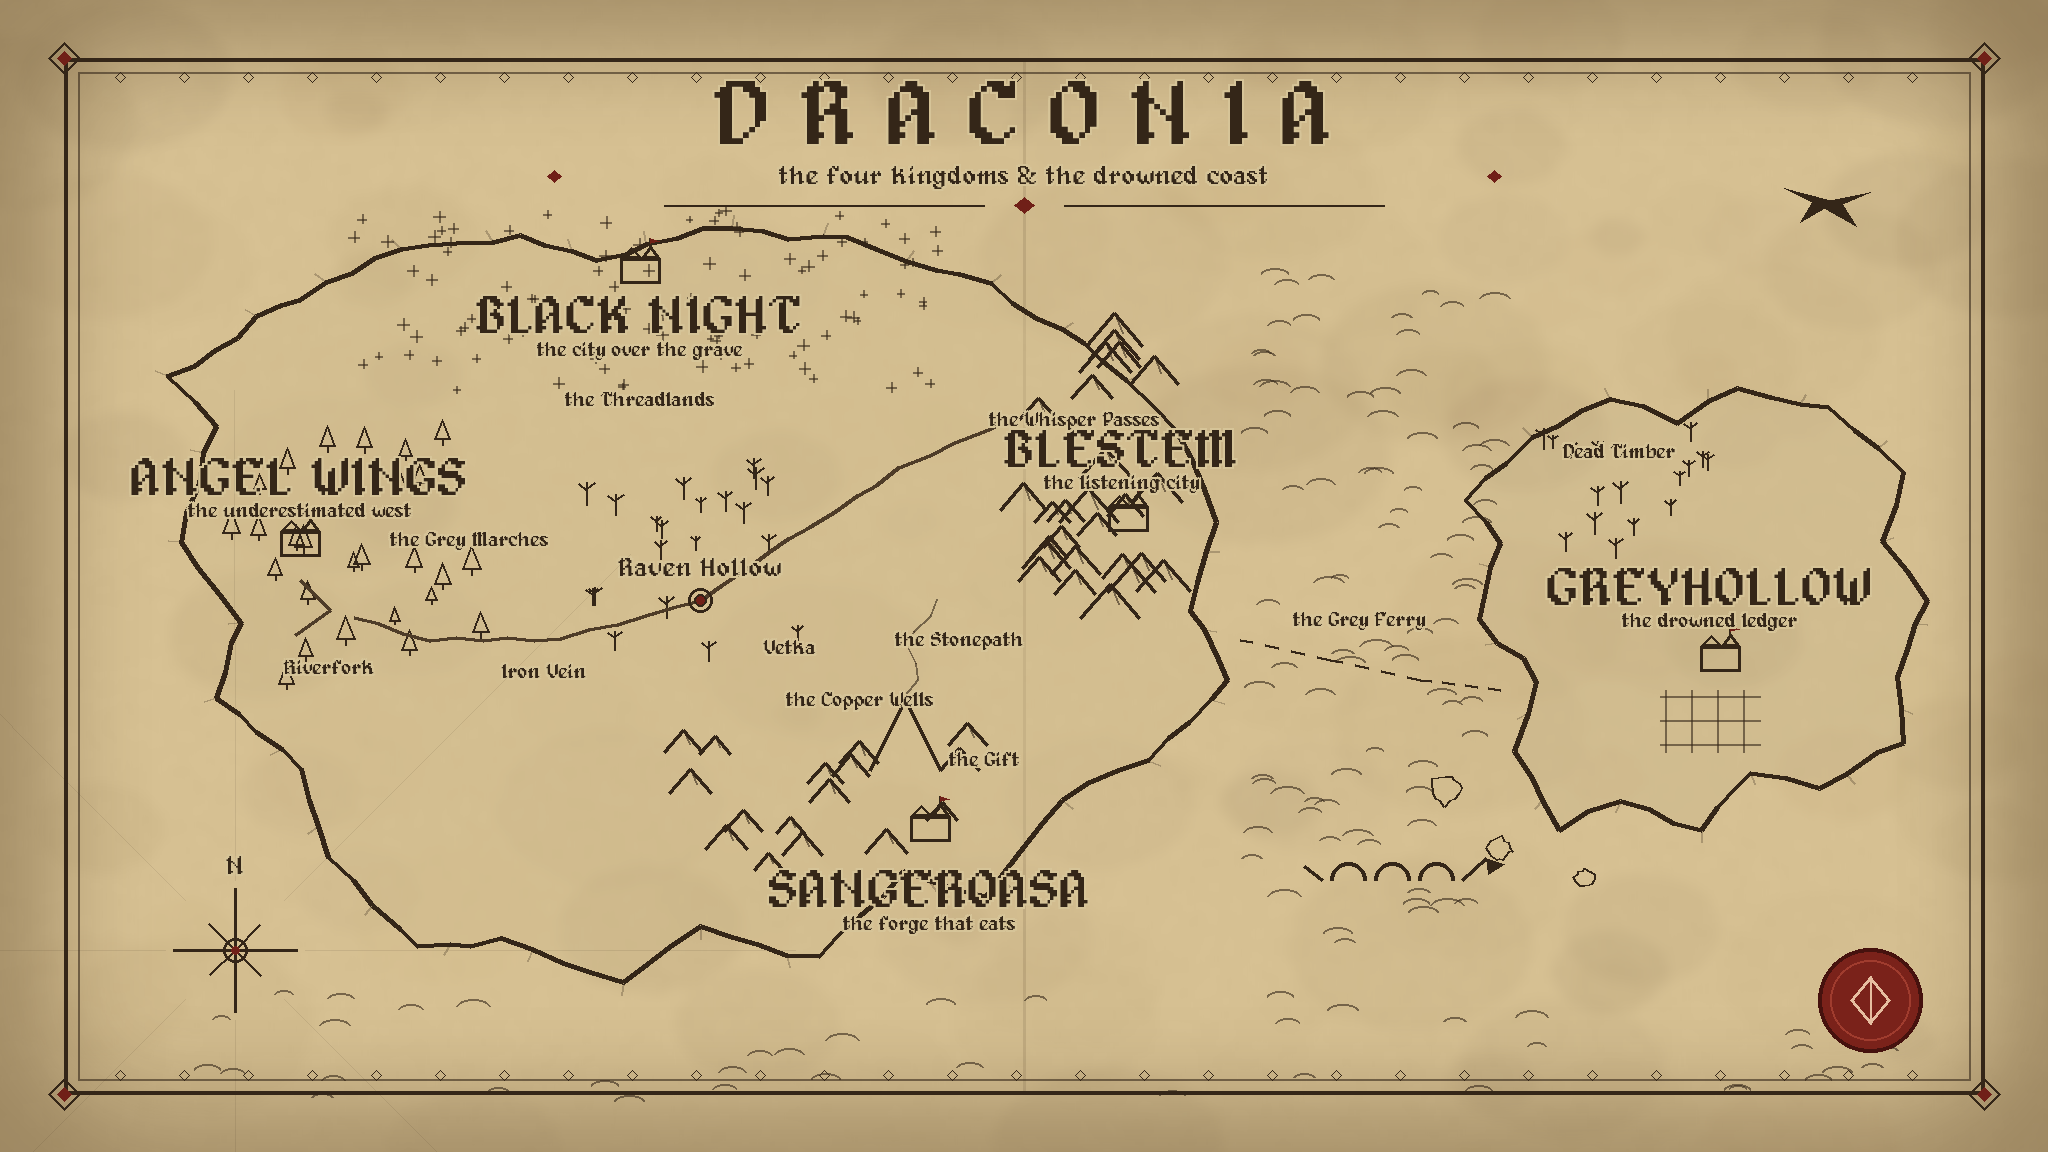
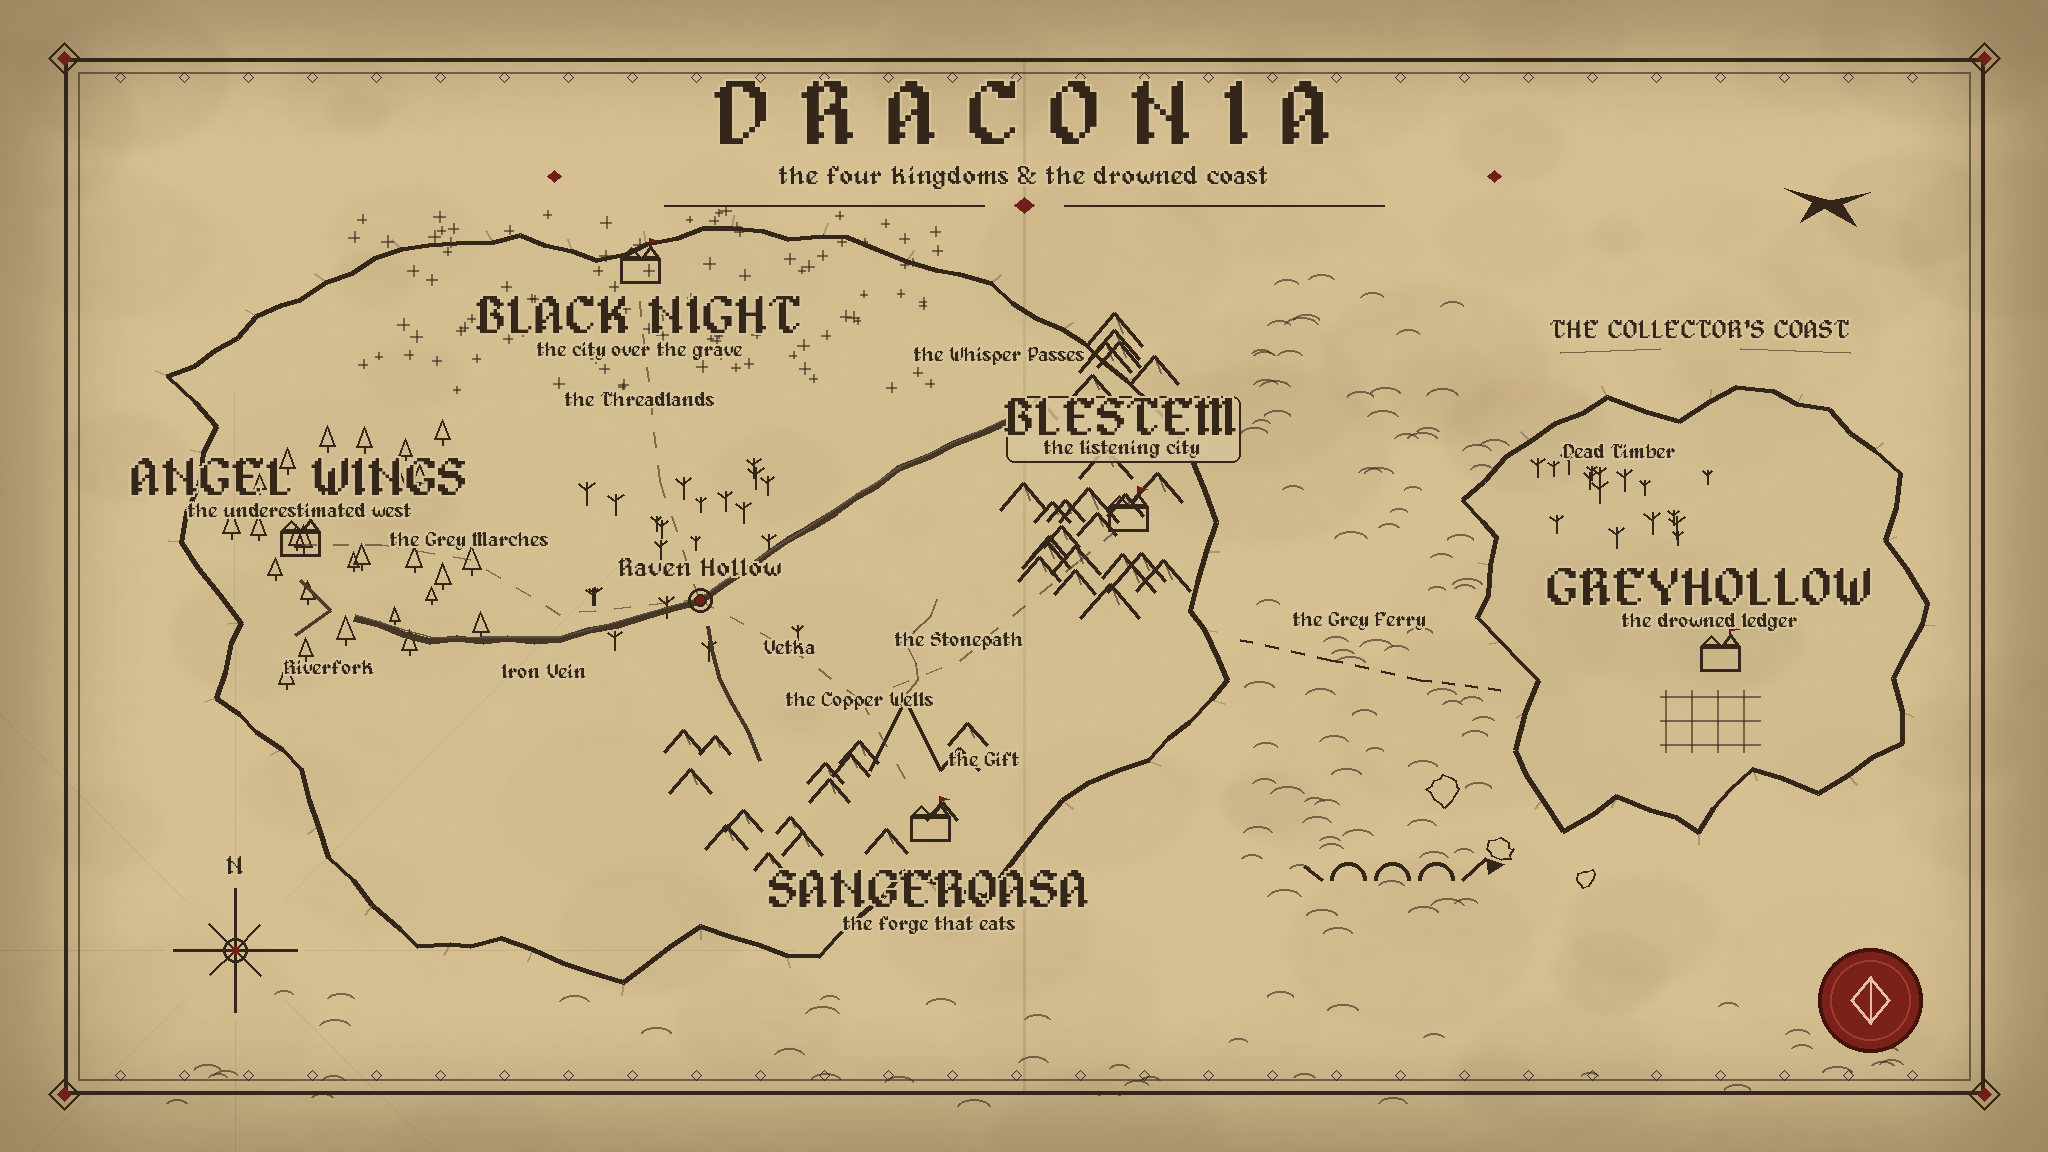
Map masterpiece v3-v3.1: coach routes, Collector's Coast title, banked river, Blestem plate
Dotted coach-route lines along the travel spine (Border ring, the west
road to Angel Wings, passes to Blestem/Sangeroasa/Black Night), THE
COLLECTOR'S COAST continent title, double-weight Iron Vein with a water
glint + tributary, Blestem label on a parchment plate clear of the peaks
(v3.1: Whisper Passes moved off the plate; glint thinned so the river
never reads as a road). The iterate-forever loop continues.

diff --git a/tools/map_gen.py b/tools/map_gen.py
@@ -158,9 +158,30 @@ trees(d, 360, 560, 26, 130, 130)              # west — lowland woods
 trees(d, 700, 570, 20, 120, 100, dead=True)   # border — dying birch
 # the Iron Vein river: NE ridges -> interior -> west delta
 river = [(1010, 420), (900, 470), (790, 540), (700, 600), (560, 640), (430, 640), (330, 610)]
-rough_poly(d, river, width=4, color=(78, 60, 40), jitter=2.0, close=False)
+trib = [(760, 760), (720, 680), (700, 600)]
+rough_poly(d, river, width=7, color=(70, 54, 38), jitter=2.0, close=False)
+rough_poly(d, [(p[0], p[1] - 2) for p in river], width=2, color=(96, 82, 66), jitter=1.0, close=False)
+rough_poly(d, trib, width=4, color=(70, 54, 38), jitter=2.0, close=False)
 d.line([(330, 610), (300, 580)], fill=(78, 60, 40), width=3)
 d.line([(330, 610), (295, 635)], fill=(78, 60, 40), width=3)
+
+# coach routes (dotted): the western travel spine + stonepath crossing
+ROUTES_PTS = [
+    [(700, 600), (790, 648), (860, 700), (960, 660)],           # border ring
+    [(700, 600), (560, 615), (470, 560), (380, 545), (300, 545)],  # to Angel Wings
+    [(960, 660), (1080, 560), (1128, 520)],                     # to Blestem
+    [(860, 700), (905, 780)],                                   # to Sangeroasa
+    [(700, 600), (660, 480), (640, 300)],                       # to Black Night
+]
+for route in ROUTES_PTS:
+    for i in range(len(route) - 1):
+        a, b = route[i], route[i + 1]
+        steps = max(4, int(math.dist(a, b) / 16))
+        for st in range(0, steps, 2):
+            t0, t1 = st / steps, min(1.0, (st + 0.9) / steps)
+            d.line([(a[0] + (b[0] - a[0]) * t0, a[1] + (b[1] - a[1]) * t0),
+                    (a[0] + (b[0] - a[0]) * t1, a[1] + (b[1] - a[1]) * t1)],
+                   fill=(90, 60, 40, 170), width=2)
 
 # kingdom capitals — gothic keep glyphs
 def keep(d, x, y, s=20):
@@ -179,8 +200,9 @@ d.ellipse([694, 594, 706, 606], outline=INK, width=3)  # Raven Hollow / Border h
 # kingdom labels
 label(d, (640, 318), "BLACK NIGHT", F_KINGDOM)
 label(d, (640, 350), "the city over the grave", F_SMALL, INK_SOFT)
-label(d, (1122, 452), "BLESTEM", F_KINGDOM)
-label(d, (1122, 483), "the listening city", F_SMALL, INK_SOFT)
+d.rounded_rectangle([1006, 396, 1240, 462], radius=8, fill=(214, 196, 152, 210), outline=INK, width=2)
+label(d, (1122, 420), "BLESTEM", F_KINGDOM)
+label(d, (1122, 448), "the listening city", F_SMALL, INK_SOFT)
 label(d, (930, 892), "SANGEROASA", F_KINGDOM)
 label(d, (930, 924), "the forge that eats", F_SMALL, INK_SOFT)
 label(d, (300, 480), "ANGEL WINGS", F_KINGDOM)
@@ -196,7 +218,7 @@ label(d, (470, 540), "the Grey Marches", F_SMALL, INK_SOFT)
 label(d, (330, 668), "Riverfork", F_SMALL, INK_SOFT)
 label(d, (985, 760), "the Gift", F_SMALL, INK_SOFT)
 label(d, (640, 400), "the Threadlands", F_SMALL, INK_SOFT)
-label(d, (1075, 420), "the Whisper Passes", F_SMALL, INK_SOFT)
+label(d, (1000, 355), "the Whisper Passes", F_SMALL, INK_SOFT)
 
 # === CONTINENT 2: THE COLLECTOR'S COAST (right, smaller, drowned)
 COAST2 = [
@@ -224,6 +246,9 @@ for gx in range(4):
 for gy in range(3):
     d.line([(1660, 696 + gy * 24), (1748 + 12, 696 + gy * 24)], fill=INK_SOFT, width=2)
 keep(d, 1720, 660)                            # Greyhollow
+label(d, (1700, 330), "THE COLLECTOR'S COAST", F_ZONE, INK)
+d.line([(1560, 352), (1660, 348)], fill=INK_SOFT, width=2)
+d.line([(1740, 348), (1850, 352)], fill=INK_SOFT, width=2)
 label(d, (1710, 590), "GREYHOLLOW", F_KINGDOM)
 label(d, (1710, 621), "the drowned ledger", F_SMALL, INK_SOFT)
 label(d, (1620, 452), "Dead Timber", F_SMALL, INK_SOFT)